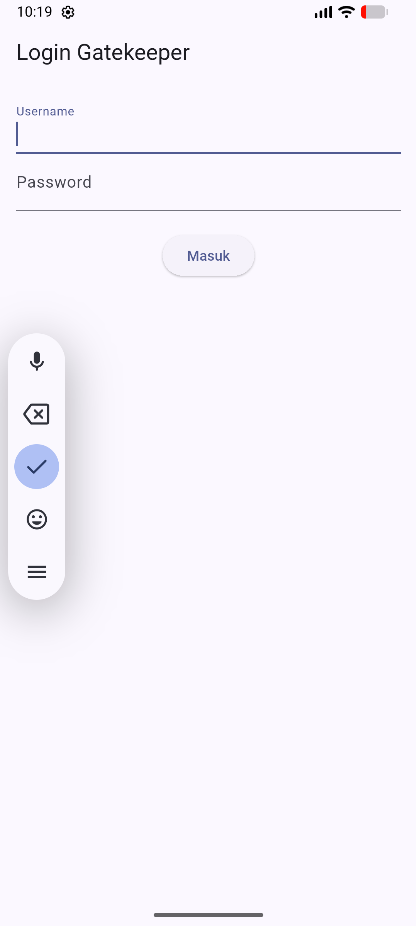
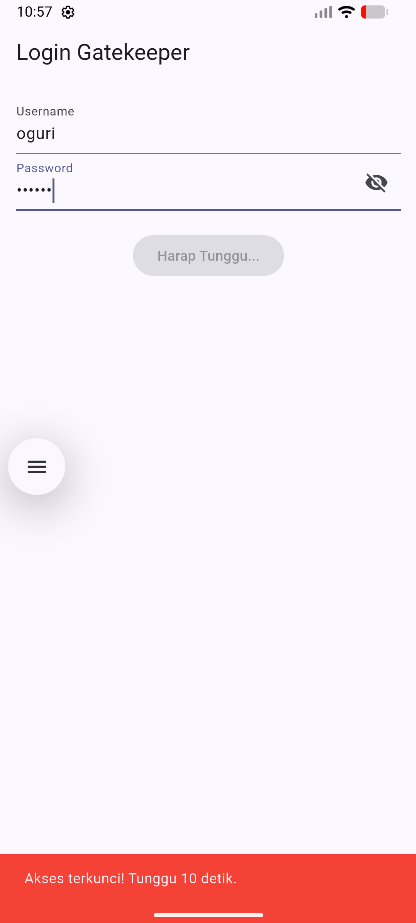
Perbarui logika login untuk mendukung beberapa pengguna dan menambahkan penguncian tombol setelah 3 percobaan gagal (Task 2)

diff --git a/lib/features/auth/login_view.dart b/lib/features/auth/login_view.dart
@@ -17,9 +17,46 @@ class _LoginViewState extends State<LoginView> {
   final TextEditingController _userController = TextEditingController();
   final TextEditingController _passController = TextEditingController();
 
+  bool _obscureText = true;
+  int _failedAttempts = 0;
+  bool _isButtonDisabled = false;
+
+  void _lockLoginButton() {
+    setState(() {
+      _isButtonDisabled = true;
+      _failedAttempts = 0;
+    });
+
+    ScaffoldMessenger.of(context).showSnackBar(
+      const SnackBar(
+        content: Text("Akses terkunci! Tunggu 10 detik."),
+        backgroundColor: Colors.red,
+      ),
+    );
+
+    // Membuka kunci otomatis setelah 10 detik
+    Future.delayed(const Duration(seconds: 10), () {
+      if (mounted) {
+        setState(() {
+          _isButtonDisabled = false;
+        });
+      }
+    });
+  }
+
   void _handleLogin() {
     String user = _userController.text;
     String pass = _passController.text;
+
+    if (user.isEmpty || pass.isEmpty) {
+      ScaffoldMessenger.of(context).showSnackBar(
+        const SnackBar(
+          content: Text("Username dan Password tidak boleh kosong!"),
+          backgroundColor: Colors.orange,
+        ),
+      );
+      return;
+    }
 
     bool isSuccess = _controller.login(user, pass);
 
@@ -27,14 +64,24 @@ class _LoginViewState extends State<LoginView> {
       Navigator.pushReplacement(
         context,
         MaterialPageRoute(
-          // Di sini kita kirimkan variabel 'user' ke parameter 'username' di CounterView
           builder: (context) => CounterView(username: user),
         ),
       );
     } else {
-      ScaffoldMessenger.of(context).showSnackBar(
-        const SnackBar(content: Text("Login Gagal! Gunakan admin/123")),
-      );
+      setState(() {
+        _failedAttempts++;
+      });
+      // batas 3x percobaan
+      if (_failedAttempts >= 3) {
+        _lockLoginButton();
+      } else {
+        ScaffoldMessenger.of(context).showSnackBar(
+          SnackBar(
+            content: Text("Login Gagal! Sisa percobaan: ${3 - _failedAttempts}"),
+            backgroundColor: Colors.redAccent,
+          ),
+        );
+      }
     }
   }
 
@@ -52,11 +99,26 @@ class _LoginViewState extends State<LoginView> {
             ),
             TextField(
               controller: _passController,
-              obscureText: true, // Menyembunyikan teks password
-              decoration: const InputDecoration(labelText: "Password"),
+              obscureText: _obscureText,
+              decoration: InputDecoration(
+                labelText: "Password",
+                // Menambahkan ikon (Show/Hide)
+                suffixIcon: IconButton(
+                  icon: Icon(
+                    _obscureText ? Icons.visibility_off : Icons.visibility,
+                  ),
+                  onPressed: () {
+                    setState(() {
+                      _obscureText = !_obscureText; //membalikkan nilai true/false
+                    });
+                  },
+                ),
+              ),
             ),
             const SizedBox(height: 20),
-            ElevatedButton(onPressed: _handleLogin, child: const Text("Masuk")),
+            ElevatedButton(onPressed: _isButtonDisabled ? null : _handleLogin,
+              child: Text(_isButtonDisabled ? "Harap Tunggu..." : "Masuk"),
+            ),
           ],
         ),
       ),

diff --git a/lib/features/auth/login_controller.dart b/lib/features/auth/login_controller.dart
@@ -1,12 +1,16 @@
 class LoginController {
   // Database sederhana (Hardcoded)
-  final String _validUsername = "admin";
-  final String _validPassword = "123";
+  final Map<String, String> _users = {
+    // username: password
+    "admin": "123",
+    "oguri": "cap",
+    "kajido": "japanvibes",
+  };
 
   // Fungsi pengecekan (Logic-Only)
   // Fungsi ini mengembalikan true jika cocok, false jika salah.
   bool login(String username, String password) {
-    if (username == _validUsername && password == _validPassword) {
+    if (_users.containsKey(username) && _users[username] == password) {
       return true;
     }
     return false;
